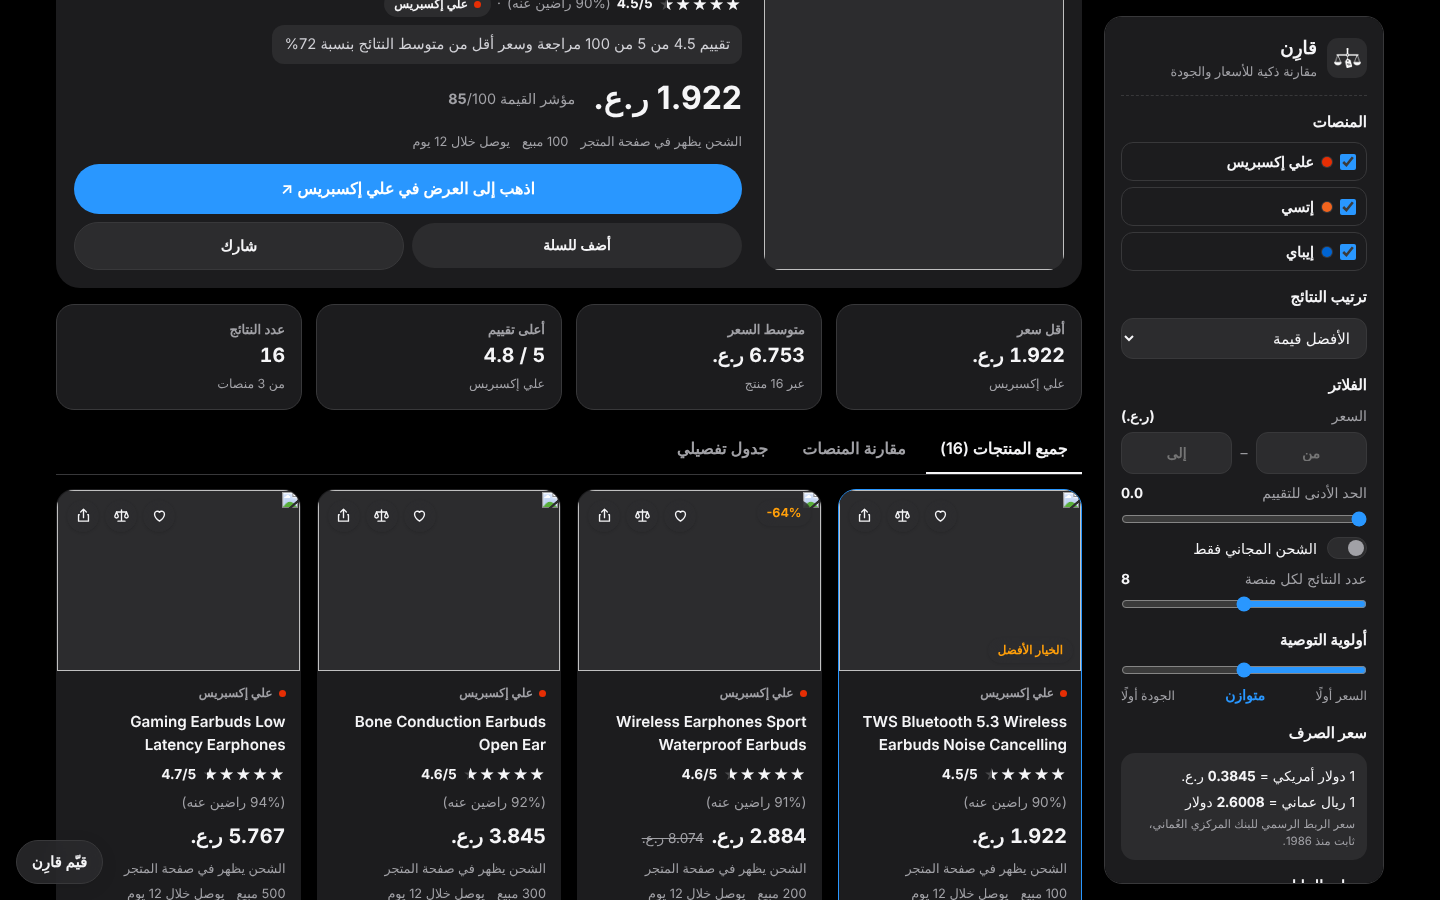
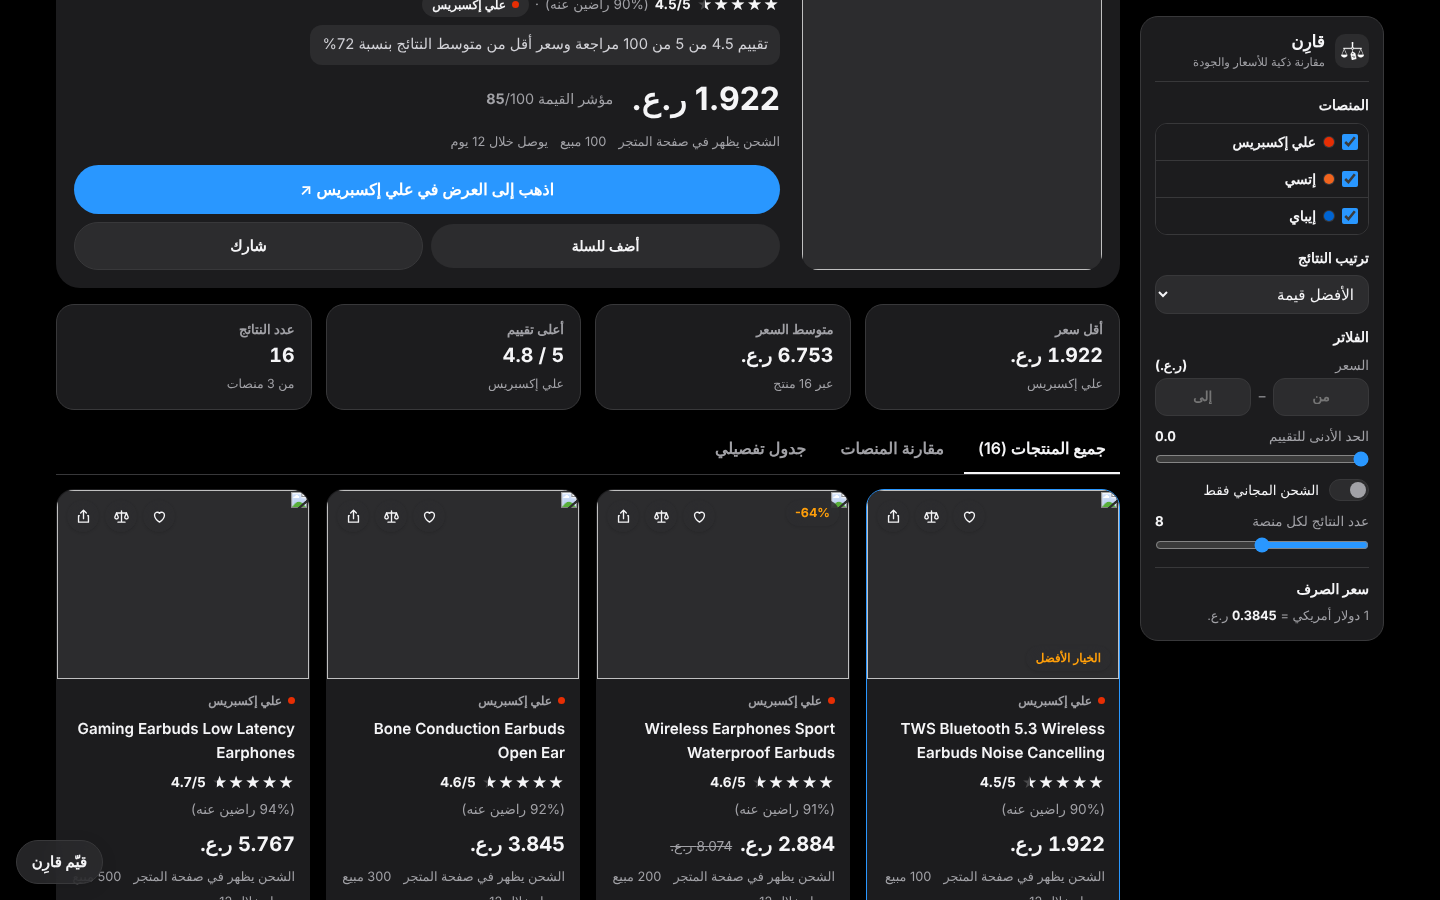
Sidebar: remove data sources and duplicate priority slider, compact grouped layout, narrower (244px) so it fits without scrolling
Claude-Session: https://claude.ai/code/session_01JPcJJz9RvUid6aaScUD6z8

diff --git a/index.html b/index.html
@@ -105,7 +105,7 @@ a { color: inherit; }
   padding-block: 20px 40px;
   padding-left: max(16px, env(safe-area-inset-left, 0px));
   padding-right: max(16px, env(safe-area-inset-right, 0px));
-  display: grid; grid-template-columns: 280px minmax(0, 1fr); gap: 22px; align-items: start;
+  display: grid; grid-template-columns: 244px minmax(0, 1fr); gap: 20px; align-items: start;
 }
 .main { min-width: 0; display: flex; flex-direction: column; gap: 16px; }
 
@@ -113,35 +113,37 @@ a { color: inherit; }
 .sidebar {
   position: sticky; top: calc(env(safe-area-inset-top, 0px) + 16px);
   background: var(--surface); border: 1px solid var(--line); border-radius: var(--radius);
-  padding: 16px; display: flex; flex-direction: column; gap: 14px;
-  max-height: calc(100vh - 32px); overflow-y: auto;
+  padding: 14px; display: flex; flex-direction: column; gap: 12px;
+  max-height: calc(100vh - 32px); overflow-y: auto; scrollbar-width: thin;
 }
-.side-head { display: flex; align-items: center; justify-content: space-between; gap: 10px; padding-bottom: 12px; border-bottom: 1px dashed var(--line); }
+.side-head { display: flex; align-items: center; justify-content: space-between; gap: 10px; padding-bottom: 10px; border-bottom: 1px solid var(--line); }
 .brand { display: flex; align-items: center; gap: 10px; }
-.brand .logo { width: 40px; height: 40px; border-radius: 11px; display: grid; place-items: center; font-size: 22px; background: var(--logo-bg); }
-.brand .logo img { width: 27px; height: auto; display: block; }
+.brand .logo { width: 34px; height: 34px; border-radius: 10px; display: grid; place-items: center; font-size: 22px; background: var(--logo-bg); }
+.brand .logo img { width: 23px; height: auto; display: block; }
 .h1-mark { height: .8em; width: auto; vertical-align: -0.06em; margin-inline-start: .12em; filter: var(--mark-filter); }
-.brand b { display: block; font-size: 1.15rem; font-weight: 700; }
-.brand small { display: block; font-size: 0.8rem; color: var(--muted); }
+.brand b { display: block; font-size: 1.05rem; font-weight: 700; line-height: 1.3; }
+.brand small { display: block; font-size: 0.72rem; color: var(--muted); }
 .icon-btn { display: none; width: 36px; height: 36px; border-radius: 10px; border: 1px solid var(--line); background: var(--surface-2); cursor: pointer; }
-.side-sec { display: flex; flex-direction: column; gap: 8px; }
-.side-sec h3 { margin: 0; font-size: 0.95rem; font-weight: 700; }
-.checks { display: grid; grid-template-columns: minmax(0, 1fr); gap: 6px; }
+.side-sec { display: flex; flex-direction: column; gap: 6px; }
+.side-sec h3 { margin: 0; font-size: 0.88rem; font-weight: 700; }
+.side-sec .field + .field, .side-sec .field + .switch, .side-sec .switch + .field { margin-top: 4px; }
+.checks { display: grid; grid-template-columns: minmax(0, 1fr); gap: 0; border: 1px solid var(--line); border-radius: 12px; overflow: hidden; }
 .check {
-  display: flex; align-items: center; gap: 8px; padding: 7px 10px; border: 1px solid var(--line);
-  border-radius: 12px; cursor: pointer; font-size: 0.9rem; font-weight: 600; background: var(--surface);
+  display: flex; align-items: center; gap: 8px; padding: 7px 10px; border: 0;
+  border-radius: 0; cursor: pointer; font-size: 0.86rem; font-weight: 600; background: var(--surface);
 }
+.check + .check { border-top: 1px solid var(--line); }
 .check input { accent-color: var(--accent); width: 16px; height: 16px; margin: 0; }
 .check .dot { width: 10px; height: 10px; border-radius: 50%; flex: none; box-shadow: 0 0 0 1px var(--line); }
 select {
-  width: 100%; padding: 9px 12px; border-radius: 12px; border: 1px solid var(--line); background: var(--surface-2);
+  width: 100%; padding: 8px 10px; border-radius: 12px; border: 1px solid var(--line); background: var(--surface-2);
 }
-.field { display: flex; flex-direction: column; gap: 4px; font-size: 0.88rem; }
+.field { display: flex; flex-direction: column; gap: 2px; font-size: 0.84rem; }
 .field > span { display: flex; justify-content: space-between; color: var(--muted); }
 .field > span b { color: var(--fg); }
 input[type="range"] { width: 100%; accent-color: var(--accent); margin: 2px 0; }
 .pr-row { display: flex; align-items: center; gap: 8px; }
-.pr-in { flex: 1; min-width: 0; width: 100%; padding: 9px 10px; border-radius: 12px; border: 1px solid var(--line); background: var(--surface-2); color: var(--fg); font: inherit; font-weight: 700; text-align: center; }
+.pr-in { flex: 1; min-width: 0; width: 100%; padding: 7px 8px; border-radius: 12px; border: 1px solid var(--line); background: var(--surface-2); color: var(--fg); font: inherit; font-weight: 700; text-align: center; }
 .pr-in:focus { outline: 2px solid var(--accent); outline-offset: 1px; }
 .pr-dash { color: var(--muted); flex: none; }
 .pr-clear { align-self: flex-start; border: 0; background: transparent; color: var(--accent-strong); font: inherit; font-size: 0.82rem; font-weight: 700; cursor: pointer; padding: 2px 0; }
@@ -149,7 +151,7 @@ input[type="range"] { width: 100%; accent-color: var(--accent); margin: 2px 0; }
 .pr-note button { border: 0; background: var(--accent); color: #fff; border-radius: 99px; padding: 4px 12px; font: inherit; font-size: 0.82rem; font-weight: 700; cursor: pointer; }
 .range-ends { display: flex; justify-content: space-between; align-items: center; font-size: 0.78rem; color: var(--muted); }
 .range-ends b { color: var(--accent-strong); font-size: 0.88rem; }
-.switch { display: flex; align-items: center; gap: 10px; cursor: pointer; font-size: 0.9rem; }
+.switch { display: flex; align-items: center; gap: 10px; cursor: pointer; font-size: 0.84rem; }
 .switch input { position: absolute; opacity: 0; width: 1px; height: 1px; }
 .switch .track { width: 40px; height: 22px; border-radius: 99px; background: var(--surface-2); border: 1px solid var(--line); position: relative; flex: none; transition: background 0.15s; }
 .switch .track::after { content: ""; position: absolute; top: 2px; right: 2px; width: 16px; height: 16px; border-radius: 50%; background: var(--muted); transition: transform 0.15s, background 0.15s; }
@@ -157,6 +159,9 @@ input[type="range"] { width: 100%; accent-color: var(--accent); margin: 2px 0; }
 .switch input:checked + .track::after { transform: translateX(-18px); background: #fff; }
 .switch input:focus-visible + .track { outline: 2px solid var(--accent); outline-offset: 2px; }
 .rate-box { background: var(--surface-2); border: 0; border-radius: 14px; padding: 10px 12px; font-size: 0.86rem; line-height: 1.9; }
+.side-fx { padding-top: 10px; border-top: 1px solid var(--line); }
+.side-fx .rate-box { background: transparent; padding: 0; font-size: 0.8rem; line-height: 1.5; color: var(--muted); }
+.side-fx .rate-box b { color: var(--fg); }
 .rate-box small { color: var(--muted); display: block; line-height: 1.5; }
 .src-row { display: flex; justify-content: space-between; align-items: center; padding: 5px 0; border-bottom: 1px solid var(--line); font-size: 0.88rem; }
 .src-row:last-child { border-bottom: 0; }
@@ -721,23 +726,9 @@ table.dt { min-width: 0; font-size: .76rem; }
       </label>
     </section>
 
-    <section class="side-sec">
-      <h3>أولوية التوصية</h3>
-      <div class="field">
-        <input type="range" id="priority" min="0" max="4" step="1" value="2" aria-label="أولوية التوصية بين السعر والجودة">
-        <div class="range-ends"><span>السعر أولًا</span><b id="priorityVal">متوازن</b><span>الجودة أولًا</span></div>
-      </div>
-    </section>
-
-    <section class="side-sec">
+    <section class="side-sec side-fx">
       <h3>سعر الصرف</h3>
       <div class="rate-box" id="rateBox"></div>
-    </section>
-
-    <section class="side-sec">
-      <h3>مصادر البيانات</h3>
-      <div id="sources"></div>
-      <p class="hint">كل المتاجر هنا تعطينا بياناتها رسميًا عن طريق الـAPI أو ملفات المنتجات.</p>
     </section>
   </aside>
   <div class="scrim" id="scrim"></div>
@@ -2547,9 +2538,10 @@ table.dt { min-width: 0; font-size: .76rem; }
     const box = $('rateBox');
     if (!box) return;
     const k = state.currency, c = CURRENCIES[k], r = RATES[k];
-    if (k === 'USD') { box.innerHTML = 'الأسعار بالدولار الأمريكي، مثل ما تعطيها المتاجر.<small>غيّر «عملة العرض» فوق عشان تشوفها بعملتك.</small>'; return; }
+    if (k === 'USD') { box.innerHTML = 'الأسعار بالدولار الأمريكي، مثل ما تعطيها المتاجر.'; box.title = ''; return; }
     const note = c.peg || (fxDate ? `سعر السوق اليوم (${esc(fxDate)}). يتغيّر كل يوم.` : 'سعر تقريبي، والسعر الفعلي يتغيّر كل يوم.');
-    box.innerHTML = `1 دولار أمريكي = <b class="num"><bdi>${fmt(r, 4)}</bdi></b> ${c.symbol}<br>1 ${c.name} = <b class="num"><bdi>${fmt(1 / r, 4)}</bdi></b> دولار<small>${note}</small>`;
+    box.innerHTML = `1 دولار أمريكي = <b class="num"><bdi>${fmt(r, 4)}</bdi></b> ${c.symbol}`;
+    box.title = note;
   }
   // سعر الدينار الكويتي واليورو اليوم (خدمة مجانية بدون مفتاح). لو ما اشتغلت نستخدم السعر التقريبي
   fetch('https://open.er-api.com/v6/latest/USD').then(r => r.json()).then(d => {
@@ -2893,7 +2885,7 @@ table.dt { min-width: 0; font-size: .76rem; }
   }
   function setPrio(i) {
     state.priority = i;
-    $('priority').value = i; $('priorityVal').textContent = PRIORITY[i][0];
+    if ($('priority')) { $('priority').value = i; $('priorityVal').textContent = PRIORITY[i][0]; }
     document.querySelectorAll('[data-prio]').forEach(b => b.setAttribute('aria-checked', String(+b.dataset.prio === i)));
     render();
   }
@@ -3443,7 +3435,7 @@ table.dt { min-width: 0; font-size: .76rem; }
       <span class="dot" style="background:${PLATFORMS[k].color}"></span>${PLATFORMS[k].name}</label>`).join('');
     $('sortSel').innerHTML = Object.entries(SORTS).map(([k, l]) => `<option value="${k}">${l.replace(EMO_LEAD, '')}</option>`).join('');
     const isLive = k => (k === 'ebay' && EBAY_API) || (k === 'aliexpress' && aliLive) || k === 'etsy';
-    const renderSources = () => { $('sources').innerHTML = KEYS.map(k => `<div class="src-row"><span>${PLATFORMS[k].name}</span><span class="pill-demo"${isLive(k) ? ' style="background:var(--tint-1);color:var(--good)"' : ''}>${isLive(k) ? 'حقيقي ✓' : 'توضيحي'}</span></div>`).join(''); };
+    const renderSources = () => { if (!$('sources')) return; $('sources').innerHTML = KEYS.map(k => `<div class="src-row"><span>${PLATFORMS[k].name}</span><span class="pill-demo"${isLive(k) ? ' style="background:var(--tint-1);color:var(--good)"' : ''}>${isLive(k) ? 'حقيقي ✓' : 'توضيحي'}</span></div>`).join(''); };
     renderSources();
     aliMeta().then(m => {
       if (m) {
@@ -3508,7 +3500,7 @@ table.dt { min-width: 0; font-size: .76rem; }
     $('priceClear').addEventListener('click', clearPrice);
     $('limit').addEventListener('input', e => { $('limitVal').textContent = e.target.value; });
     $('limit').addEventListener('input', e => { state.limit = +e.target.value; render(); });
-    $('priority').addEventListener('input', e => setPrio(+e.target.value));
+    if ($('priority')) $('priority').addEventListener('input', e => setPrio(+e.target.value));
     document.querySelectorAll('[data-prio]').forEach(b => b.addEventListener('click', () => setPrio(+b.dataset.prio)));
 
     $('results').addEventListener('click', e => {
